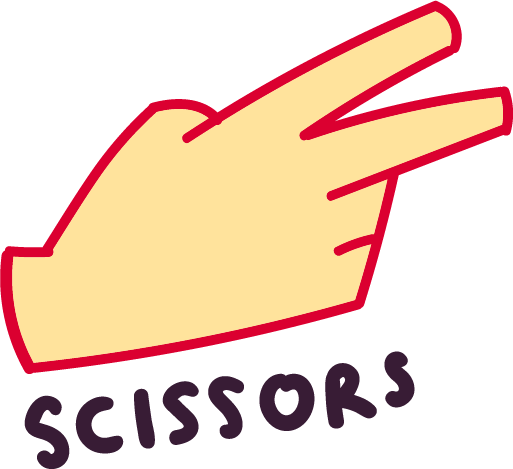
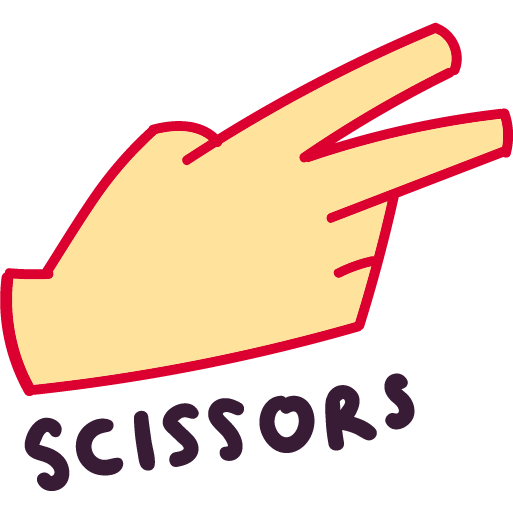
Upgrade design (a bit)

Changed region(s): [[0.0, 0.5075, 0.8109, 1.0], [0.1248, 0.0, 1.0, 0.4776], [0.0, 0.5075, 0.0936, 0.5672]]

diff --git a/script.js b/script.js
@@ -1,34 +1,64 @@
-const allButtons = document.querySelectorAll('.buttons button');
-var isAnimating = false
+const allButtons = document.querySelectorAll('#buttons button');
+const possibleMoves = ["rock", "paper", "scissors"];
+const winningConditions = {
+    rock: 'scissors',
+    paper: 'rock',
+    scissors: 'paper'
+};
+const imageDict = {
+    "rock" : "img/rock.png",
+    "paper" : "img/paper.png",
+    "scissors" : "img/scissors.png"
+};
+
+var isAnimating = false;
+var playerScore = 0
+var computerScore = 0
 
 function playAnimation(elementId, onCallback) {
-  var elem = document.getElementById(elementId);
-  let pos = 0;
-  let frameCounter = 0;
+    var elem = document.getElementById(elementId);
+    let pos = 0;
+    let frameCounter = 0;
+    const id = setInterval(frame, 2);
 
-  const id = setInterval(frame, 2);
+    document.getElementById("player-img").src="img/fist.png";
+    document.getElementById("computer-img").src="img/inv_fist.png";
 
-  function frame() {
-    if (frameCounter == 320) {
-      clearInterval(id);
+    function frame() {
+        if (frameCounter == 320) {
+        clearInterval(id);
+        if (onCallback){
+            onCallback();
+            return;
+        }}
 
-      if (onCallback){
-        onCallback();
-        return;
-      }
+        let blockNumber = Math.floor(frameCounter / 40);
+        if (blockNumber % 2 === 0) {
+            pos++;
+        } else {
+            pos--;
+        }
+
+        elem.style.transform = `translateY(-${pos}px)`; 
+        frameCounter++;
+    }
+}
+
+function playRound(playerMove){
+    let i = Math.floor(Math.random() * possibleMoves.length);
+    let computerMove = possibleMoves[i];
+
+    if (winningConditions[playerMove] == computerMove){
+        playerScore++;
+    } else if (winningConditions[computerMove] == playerMove){
+        computerScore++;
     }
 
-    let blockNumber = Math.floor(frameCounter / 40);
-    
-    if (blockNumber % 2 === 0) {
-        pos++;
-    } else {
-        pos--;
-    }
+    document.getElementById("player-img").src=imageDict[playerMove];
+    document.getElementById("computer-img").src=imageDict[computerMove];
 
-    elem.style.transform = `translateY(-${pos}px)`; 
-    frameCounter++;
-  }
+    document.getElementById("player-score").textContent=playerScore;
+    document.getElementById("computer-score").textContent=computerScore;
 }
 
 allButtons.forEach(button => {
@@ -40,26 +70,25 @@ allButtons.forEach(button => {
         }
 
         isAnimating = true
-        
         console.log(this.className + ' button was clicked!'); // 'this' refers to the button that was clicked
-
-        // --- BONUS: VISUALLY DISABLE BUTTONS ---
         allButtons.forEach(btn => {
             btn.disabled = true;
-            // Optional: Change the style to make it look disabled.
             btn.style.opacity = '0.5'; 
         });
+
+        var playerMove = this.className
 
         playAnimation('player-img');
         playAnimation('computer-img', function() {
             console.log("Animation finished!");
             isAnimating = false
+            playRound(playerMove)
 
             allButtons.forEach(btn => {
             btn.disabled = false;
             btn.style.opacity = '0.5'; 
             });
         });
-        
+
     });
 });

diff --git a/main.html b/main.html
@@ -9,11 +9,19 @@
 </head>
 <body>
     <h1>Rock Paper Scissors</h1>
-    <div id="image-container">
-        <img src="img/fist.png" alt="Picture of a fist" class="game_img" id="player-img">
-        <img src="img/inv_fist.png" alt="Picture of the other fist" class="game_img" id="computer-img">
+    <div id="image-rack">
+        <div class="image-container">
+            <span class="player-name">You</span>
+            <img src="img/fist.png" alt="Picture of a fist" class="game_img" id="player-img">
+            <span id="player-score">0</span>
+        </div>
+        <div class="image-container">
+            <span class="player-name">The Evil Opponent</span>
+            <img src="img/inv_fist.png" alt="Picture of the other fist" class="game_img" id="computer-img">
+            <span id="computer-score">0</span>
+        </div>
     </div>
-    <div class="buttons">
+    <div id="buttons">
         <button class="rock">Rock</button>
         <button class="paper">Paper</button>
         <button class="scissors">Scissors</button>

diff --git a/style.css b/style.css
@@ -1,11 +1,32 @@
-* { border: 1px solid black; }
-#image-container {
+/* * { border: 1px solid black; } */
+#image-rack {
     display: flex;
     position: relative;
     justify-content: space-evenly;
 }
 
+.image-container {
+    display: flex;
+    flex-direction: column;
+    align-items: center;
+}
+
 .game_img {
     position: relative;
-    height: 200px;
+    width: 250px;
+    height: 250px;
+}
+
+#scores {
+    display: flex;
+    justify-content: space-evenly;
+}
+
+#buttons {
+    display: flex;
+    justify-content: space-evenly;
+}
+
+.player-name {
+    margin-bottom: 50px;
 }
